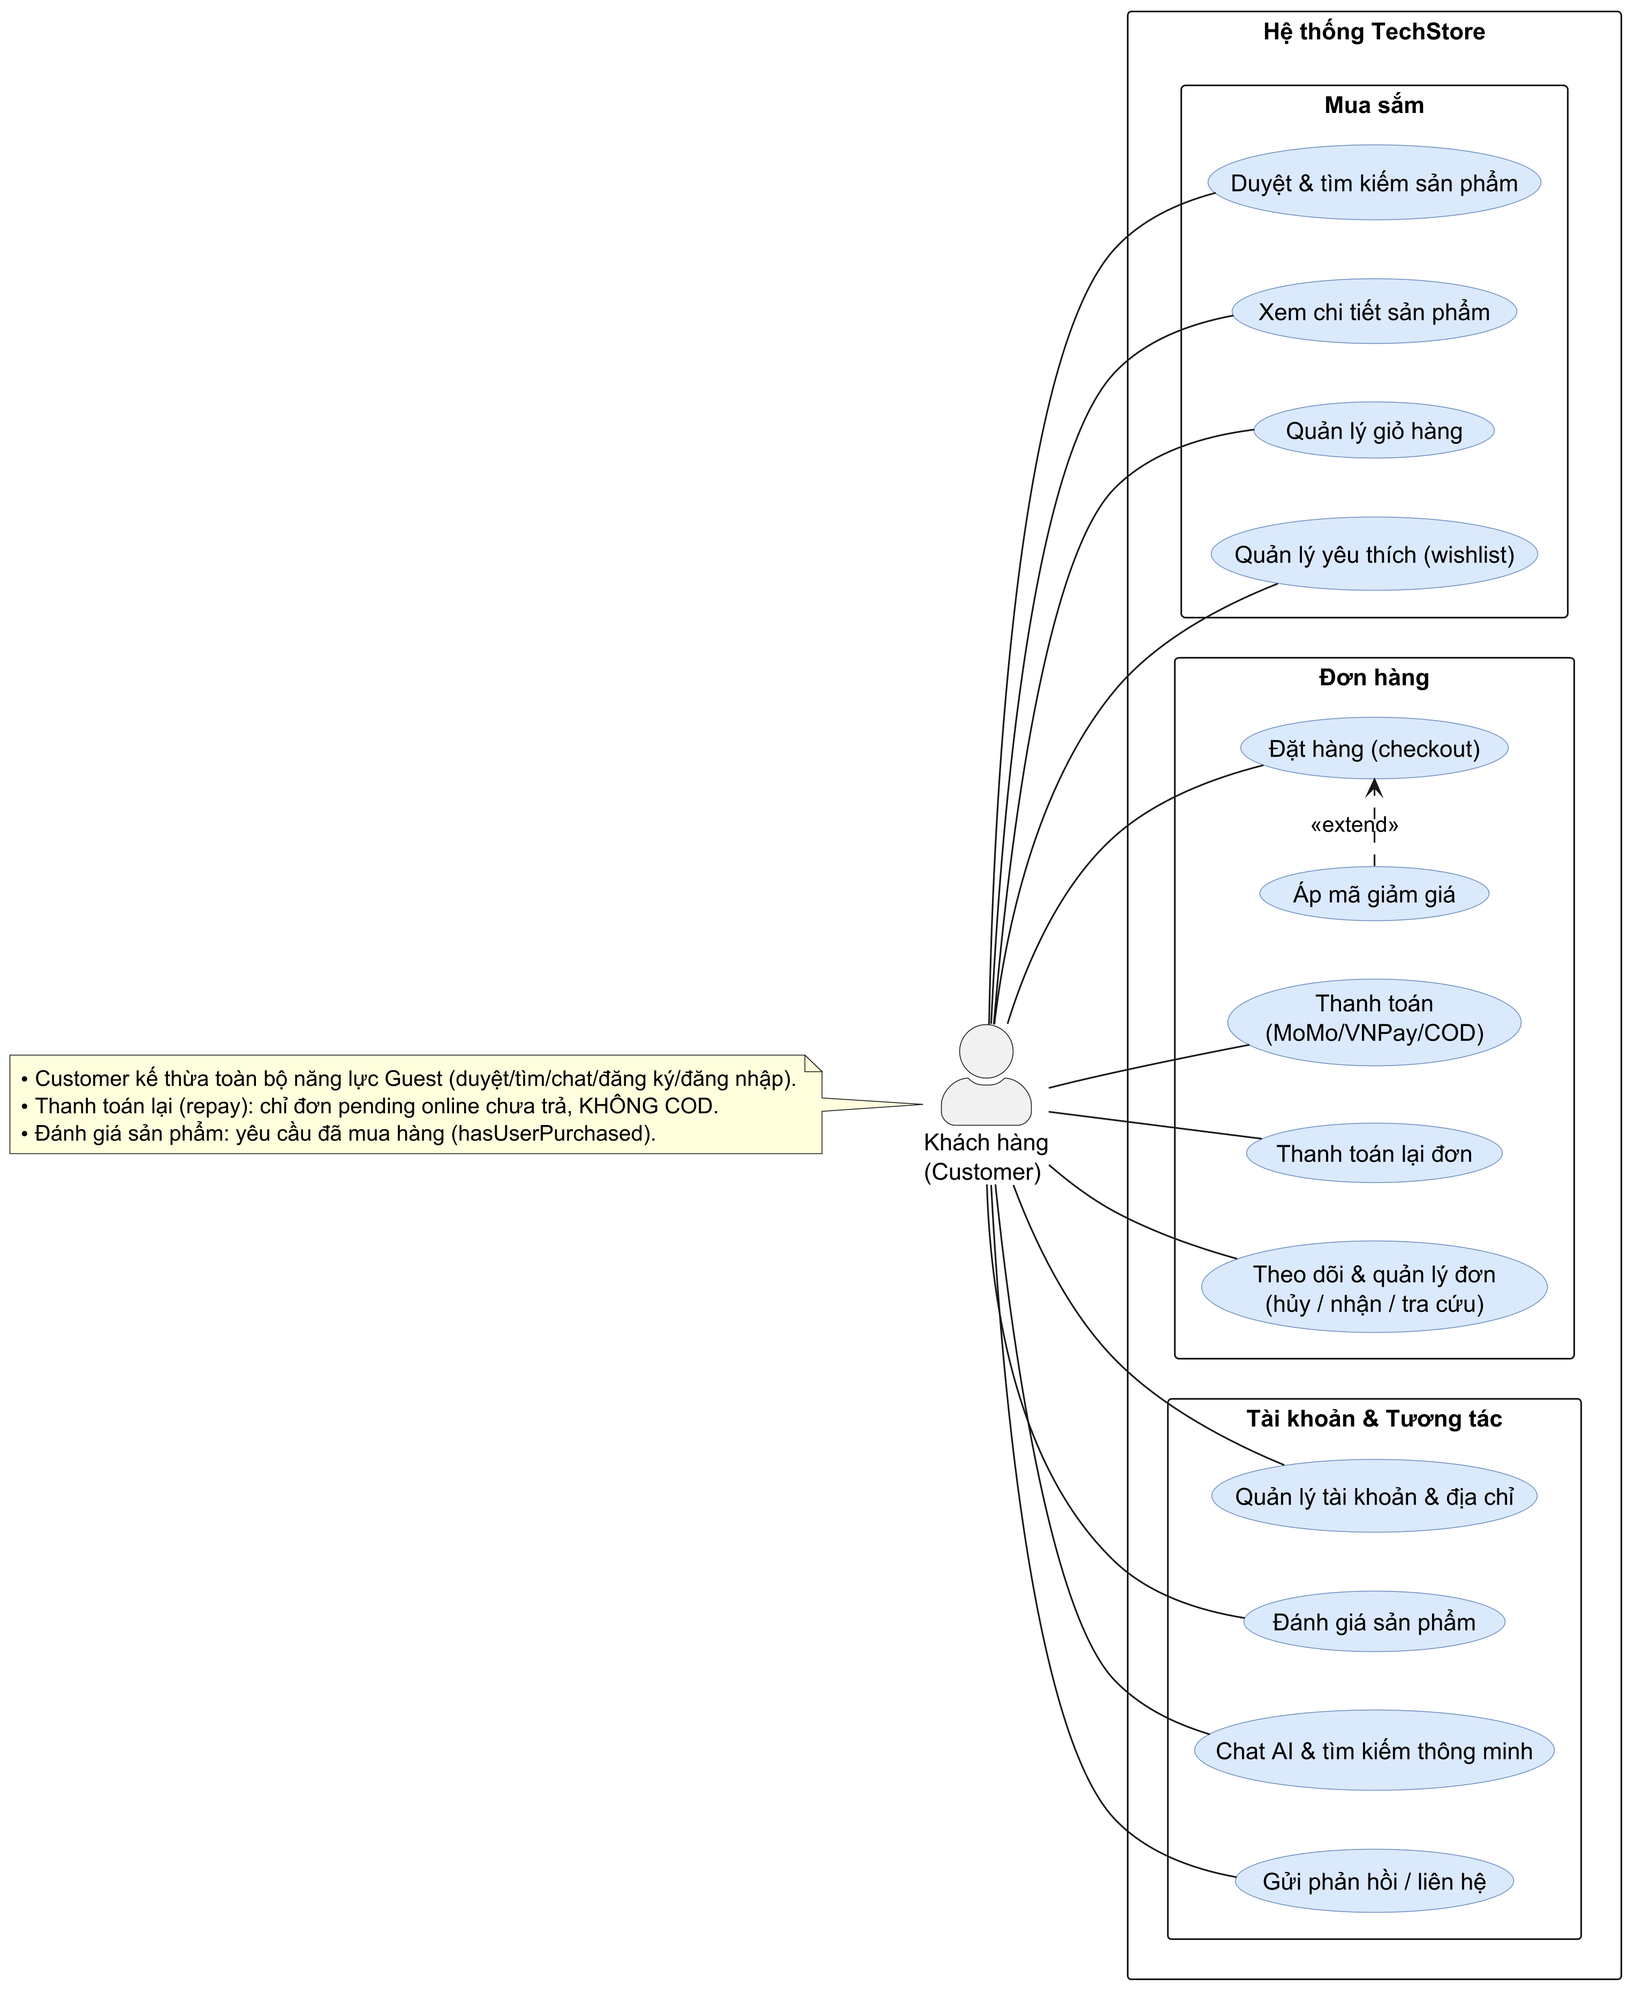
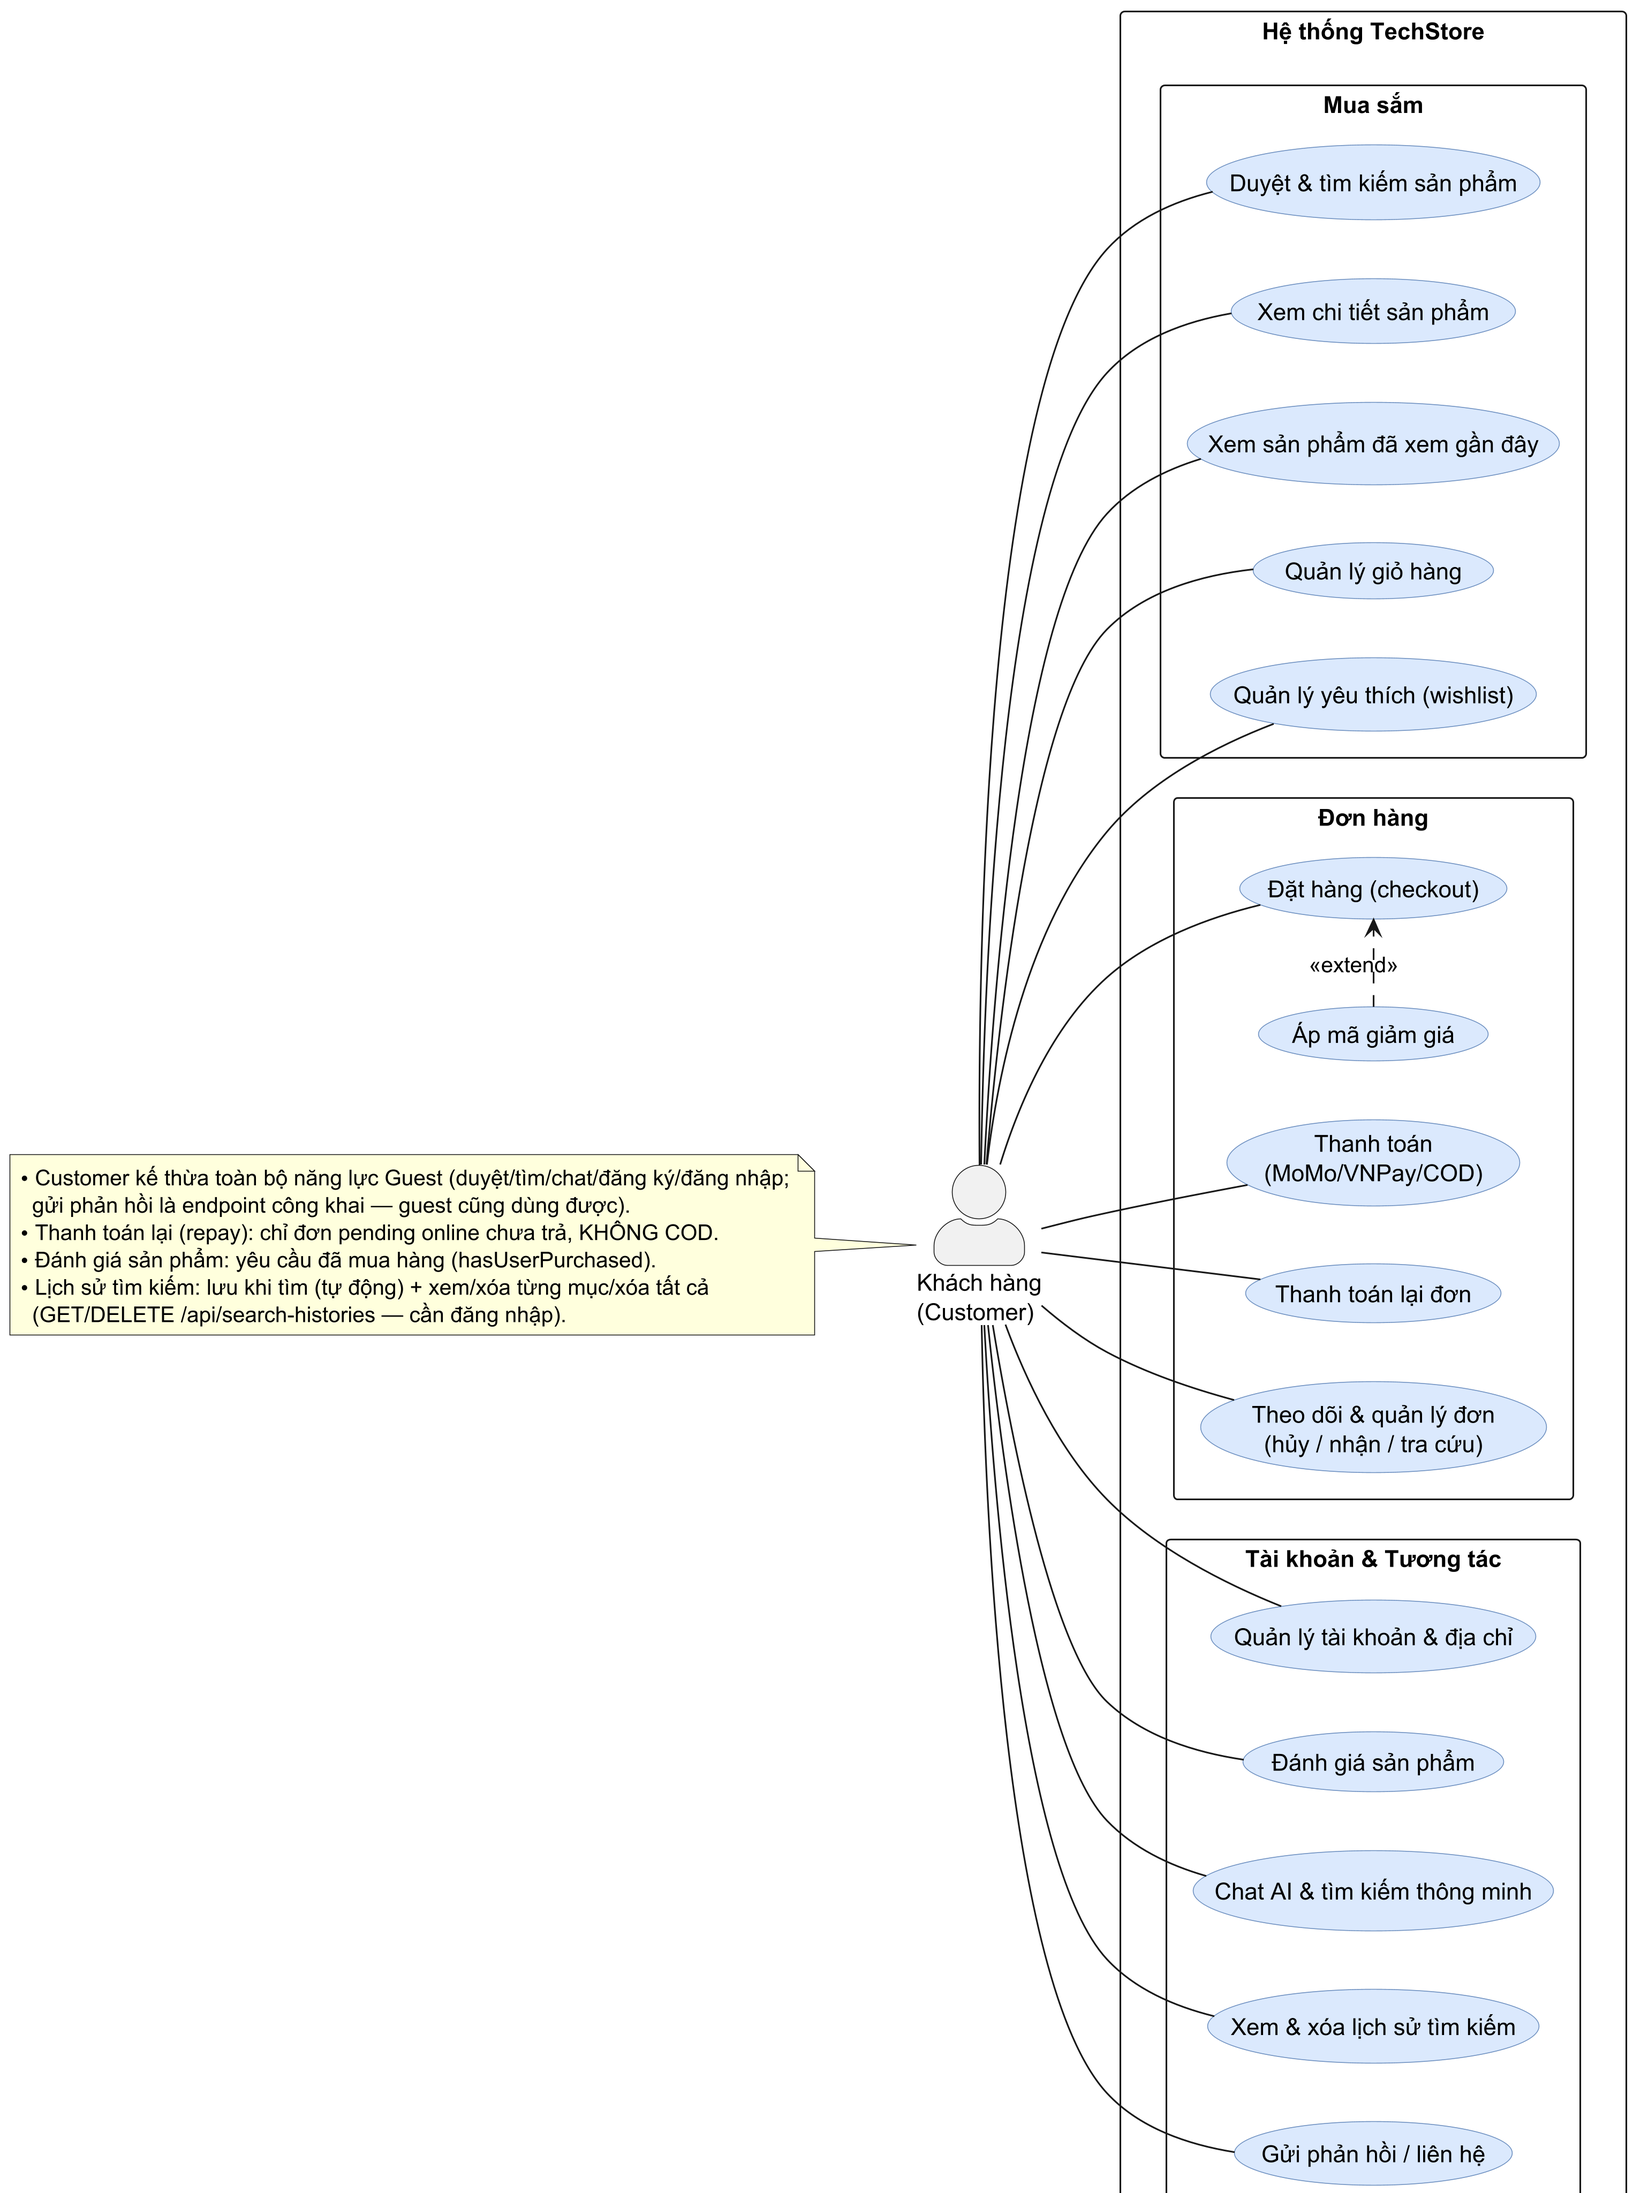
docs(diagram): vẽ lại + ký GATE-D state-01-order, uc-02, uc-03
Cập nhật 3 sơ đồ theo fix F9-F14 + verify độc lập khớp code:
- state-01-order: +cung shipped->cancelled (no-restore, INV-STK-6),
  chặn delivered->cancelled (400, F13), note cancelled->* 422 terminal (F14).
- uc-02-overview-customer: +UC lịch sử tìm kiếm + SP đã xem (15 UC).
- uc-03-overview-admin: +UC CRUD danh mục/brand + import CSV (9 UC staff).

Bump diagram-manifest status -> signed; cập nhật plan §D.2.

diff --git a/plan.md b/plan.md
@@ -294,7 +294,12 @@ Quy trình (D.1 tầng 0): audit logic → fix code → VERIFY đúng cách (gat
 - **Verify:** BE unit **4079 pass + coverage branches 99.74%** (orders/admin/payment-service 100%); **integration 207 pass**; lint:strict sạch; architecture hook qua; **review độc lập (code-reviewer, no edit-intent): 0 bug chặn merge, mọi invariant thỏa**. Dead vars dọn (sequelize/ProductVariant tôi tạo + Sequelize/Order/Review pre-existing, user duyệt).
 - **Mutation test-strengthening (orders+payment core):** 79.20% → **93.48%** (payment-service 97.01%, orders-service ~90%); **money/status-logic survivor = 0** (payment gating chặn discount/cart/email khi đơn cancelled/lệch tiền/idempotent; cap discount L259 — đều kill bằng test assert OUTCOME); 7 equivalent disabled có lý do (tax=0, float boundary). +~315 test. Còn 63 survivor = plumbing/display/guard-artifact (chấp nhận, không brittle-chase).
 - **⚠ Blocker mutation full-critical (DEFER — task test-infra riêng):** cart/inventory/discount KHÔNG đo được mutation — test files dùng `jest.mock(module, factory)`, Stryker instrument (`stryMutAct`) phá `babel-plugin-jest-hoist` → BABEL_TRANSFORM_ERROR. orders/payment thoát vì dùng manual DI mock. Gate `test:mutation:critical` của project khả năng cũng dính khi chạy full 5 module. Fix = refactor `jest.mock`→manual-mock HOẶC chỉnh Stryker config (chưa làm, user duyệt defer).
-- **⚠ Còn lại:** state-01-order sơ đồ cần re-render (thêm cung delivered→cancelled chặn, shipped→cancelled no-restore); 4 sơ đồ FAIL (state-01/uc-02/uc-03) vẫn chờ vẽ lại theo task gốc.
+- **✅ 3 sơ đồ FAIL đã VẼ LẠI + KÝ GATE-D 2026-06-03 (T0+T1+T2 done, status `signed`; verify độc lập 3 diagram-verifier = MATCH 0 blocker):**
+  - `state-01-order`: +cung `shipped→cancelled` (KHÔNG hoàn kho, staff-only, INV-STK-6) + cung CHẶN `delivered→cancelled` (đỏ nét đứt, từ chối 400, F13) + note `cancelled→*` 422 terminal (F14) & INV-PAY-3. Verify vs `orders-service.updateOrderStatus` L578 (13 transition đối chiếu file:line).
+  - `uc-02-overview-customer` (15 UC): +UC "Xem & xóa lịch sử tìm kiếm" (`search-history/routes.js:52-54`) + "Xem SP đã xem gần đây" (`catalog/routes.js:313` recently-viewed, authenticate); note feedback là endpoint CÔNG KHAI (`content/routes.js:20`).
+  - `uc-03-overview-admin` (9 UC staff): +UC "Quản lý danh mục & thương hiệu (CRUD)" (`catalog/routes.js:100-189` authorize('staff')) + "Nhập SP hàng loạt (import CSV)" (`admin/routes.js:167/169` staffOnly). Export=backoffice đã gộp vào UC analytics.
+  - ("4 sơ đồ FAIL" ở handoff cũ là đếm lỏng — thực tế 3 sơ đồ; uc-01-guest đã có "Gửi phản hồi" nên không cần sửa.)
+  - ⚠ CHƯA `git commit` (chờ user yêu cầu rõ). `wf:gate` vẫn đỏ do 39 sơ đồ roadmap còn `pending` — KHÔNG phải do 3 sơ đồ này (đã signed).
 
 **🔧 F7 FIX (2026-06-03) — repay đúng nghiệp vụ + wire UI:** `_canRepay` = `status==='pending' && paymentStatus!=='paid' && paymentMethod!=='cod'` (bỏ nhánh `cancelled` → `cancelled` thành **terminal**, hết leak; loại COD). `repayOrder` chỉ reset `paymentStatus` (failed→pending), **KHÔNG đổi `order.status`** → repay không phải transition. FE: un-dead `handleRepayOrder` + thêm nút "Thanh toán lại" ở `OrdersPage` (lấp UX gap đơn online pending chưa trả). Verify: BE unit (rewrite 3: cancelled/COD→422, pending+momo→ok) **3805 + coverage pass**; integration gate `repay cancelled → throw` (fail nếu revert) trong `orders-edge-cases`; FE +3 test (`cart-orders-pages`); typecheck+lint BE/FE sạch. Doc: `orders/CLAUDE.md §3.5/§3.10` (BE) + FE CLAUDE.md + `DIAGRAMS.md §7.1`. Sơ đồ `state-01-order` re-render (cancelled terminal, bỏ repay arrow).
 
